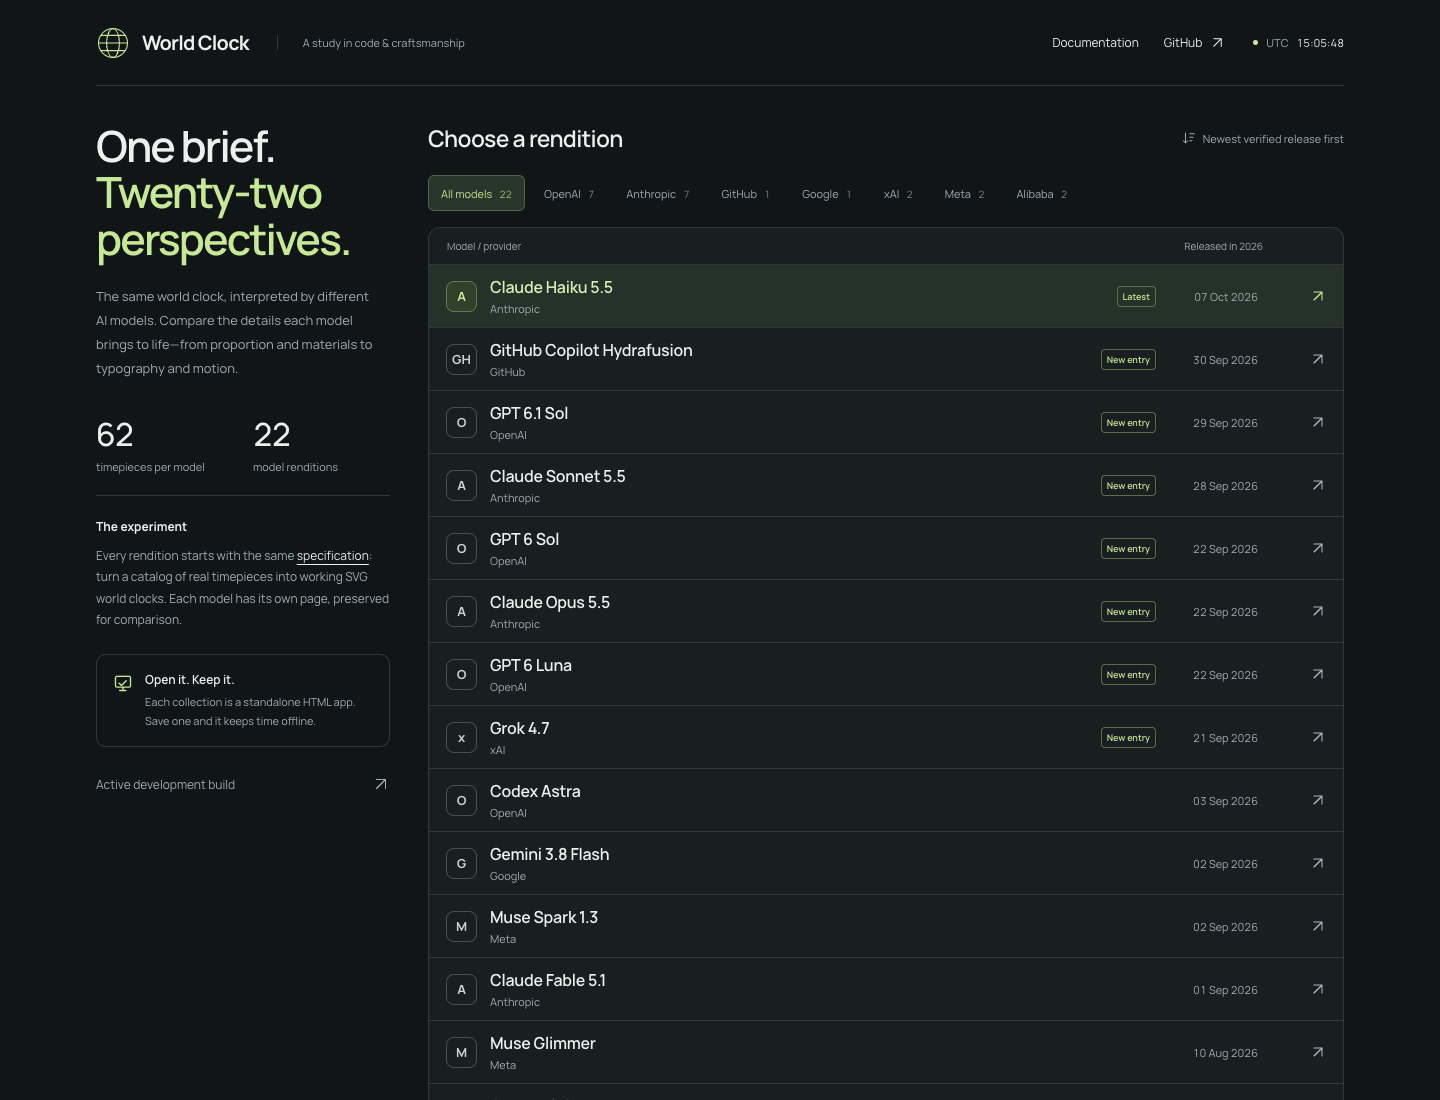
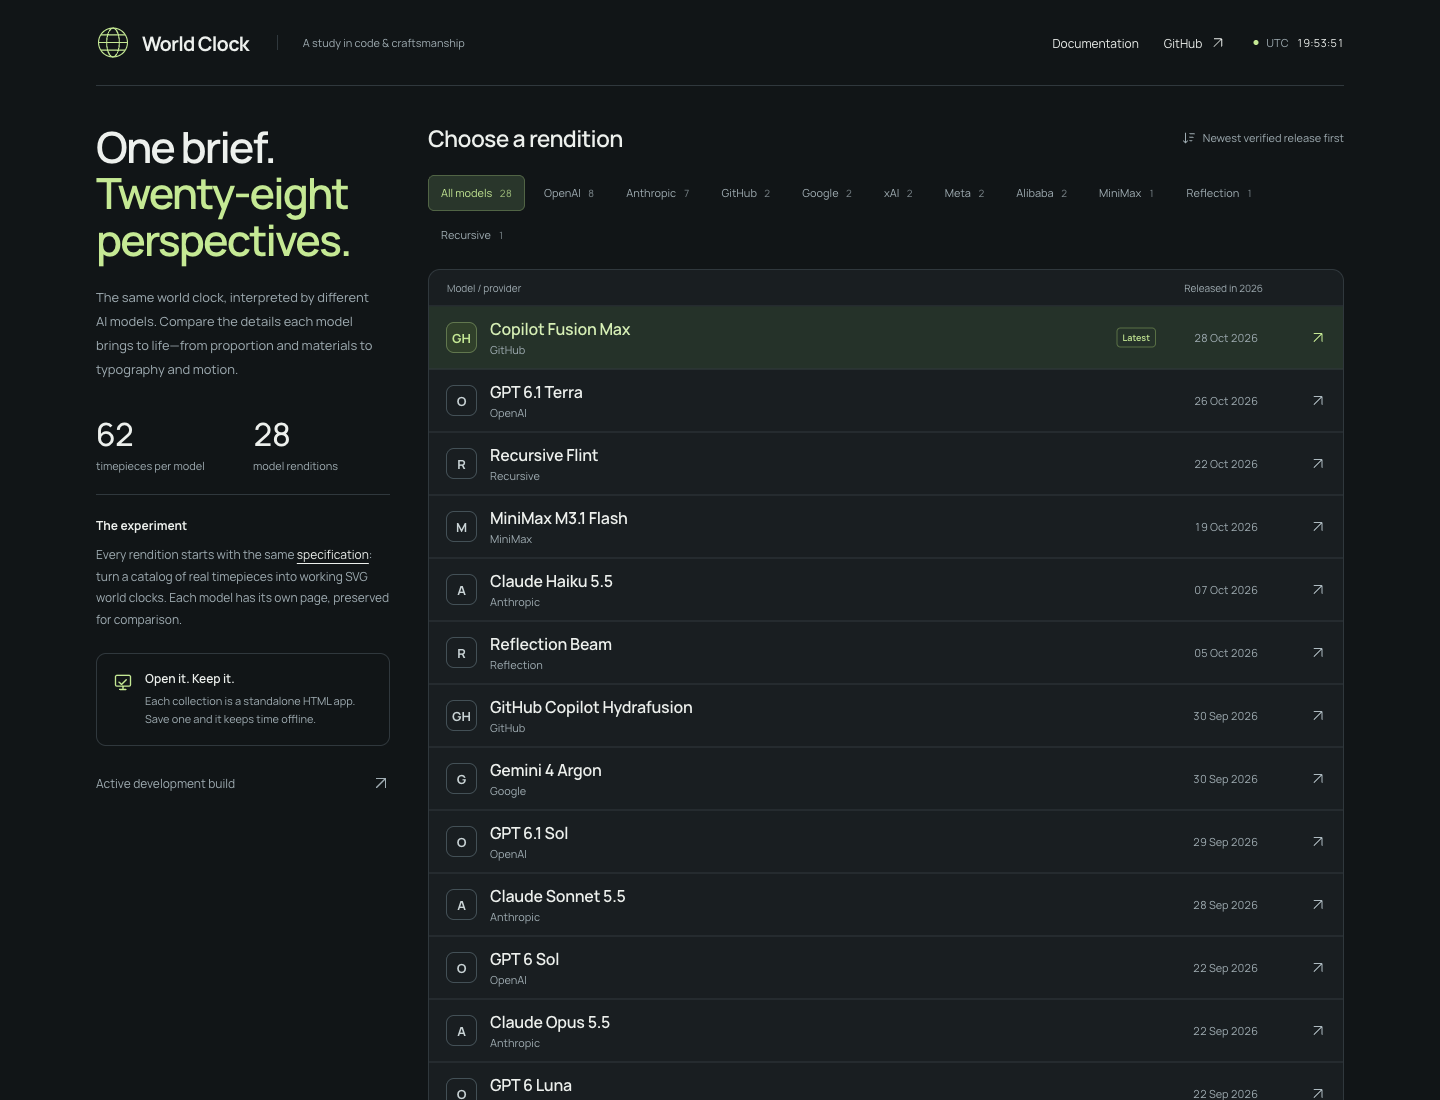
Record Copilot Fusion Max release date (#145)
Record October 28, 2026 as the Copilot Fusion Max release date and update the directory, documentation, and screenshots.

diff --git a/index.html b/index.html
@@ -44,7 +44,8 @@
       <div class="directory-head"><h2 id="directory-title">Choose a rendition</h2><span class="release-order"><svg class="icon" viewBox="0 0 20 20" aria-hidden="true"><path d="M5 3v14m-3-3 3 3 3-3M11 4h7m-7 5h5m-5 5h3"/></svg>Newest verified release first</span></div>
       <div class="filter-bar" role="group" aria-label="Filter models by provider" hidden><button type="button" data-filter="all" aria-pressed="true">All models <span>28</span></button><button type="button" data-filter="OpenAI" aria-pressed="false">OpenAI <span>8</span></button><button type="button" data-filter="Anthropic" aria-pressed="false">Anthropic <span>7</span></button><button type="button" data-filter="GitHub" aria-pressed="false">GitHub <span>2</span></button><button type="button" data-filter="Google" aria-pressed="false">Google <span>2</span></button><button type="button" data-filter="xAI" aria-pressed="false">xAI <span>2</span></button><button type="button" data-filter="Meta" aria-pressed="false">Meta <span>2</span></button><button type="button" data-filter="Alibaba" aria-pressed="false">Alibaba <span>2</span></button><button type="button" data-filter="MiniMax" aria-pressed="false">MiniMax <span>1</span></button><button type="button" data-filter="Reflection" aria-pressed="false">Reflection <span>1</span></button><button type="button" data-filter="Recursive" aria-pressed="false">Recursive <span>1</span></button></div>
       <div class="table"><div class="table-header" aria-hidden="true"><span>Model / provider</span><span>Released in 2026</span></div><ol class="directory" reversed aria-label="Model renditions, newest verified release first">
-<li data-release-date="2026-10-26" data-provider="OpenAI" class="latest"><a class="model-link" href="versions/gpt-6.1-terra.html"><span class="provider-mark" aria-hidden="true">O</span><span class="model-info"><span class="model-name">GPT 6.1 Terra</span><span class="provider">OpenAI</span></span><span class="latest-badge">Latest</span><time datetime="2026-10-26">26 Oct<span> 2026</span></time><span class="open-label">Open</span><svg class="icon" viewBox="0 0 24 24" aria-hidden="true"><path d="M6 18 18 6M6 6h12v12"/></svg></a></li>
+<li data-release-date="2026-10-28" data-provider="GitHub" class="latest"><a class="model-link" href="versions/copilot-fusion-max.html"><span class="provider-mark" aria-hidden="true">GH</span><span class="model-info"><span class="model-name">Copilot Fusion Max</span><span class="provider">GitHub</span></span><span class="latest-badge">Latest</span><time datetime="2026-10-28">28 Oct<span> 2026</span></time><span class="open-label">Open</span><svg class="icon" viewBox="0 0 24 24" aria-hidden="true"><path d="M6 18 18 6M6 6h12v12"/></svg></a></li>
+<li data-release-date="2026-10-26" data-provider="OpenAI"><a class="model-link" href="versions/gpt-6.1-terra.html"><span class="provider-mark" aria-hidden="true">O</span><span class="model-info"><span class="model-name">GPT 6.1 Terra</span><span class="provider">OpenAI</span></span><span class="row-spacer" aria-hidden="true"></span><time datetime="2026-10-26">26 Oct<span> 2026</span></time><span class="open-label">Open</span><svg class="icon" viewBox="0 0 24 24" aria-hidden="true"><path d="M6 18 18 6M6 6h12v12"/></svg></a></li>
 <li data-release-date="2026-10-22" data-provider="Recursive"><a class="model-link" href="versions/recursive-flint.html"><span class="provider-mark" aria-hidden="true">R</span><span class="model-info"><span class="model-name">Recursive Flint</span><span class="provider">Recursive</span></span><span class="row-spacer" aria-hidden="true"></span><time datetime="2026-10-22">22 Oct<span> 2026</span></time><span class="open-label">Open</span><svg class="icon" viewBox="0 0 24 24" aria-hidden="true"><path d="M6 18 18 6M6 6h12v12"/></svg></a></li>
 <li data-release-date="2026-10-19" data-provider="MiniMax"><a class="model-link" href="versions/minimax-m3-1-flash.html"><span class="provider-mark" aria-hidden="true">M</span><span class="model-info"><span class="model-name">MiniMax M3.1 Flash</span><span class="provider">MiniMax</span></span><span class="row-spacer" aria-hidden="true"></span><time datetime="2026-10-19">19 Oct<span> 2026</span></time><span class="open-label">Open</span><svg class="icon" viewBox="0 0 24 24" aria-hidden="true"><path d="M6 18 18 6M6 6h12v12"/></svg></a></li>
 <li data-release-date="2026-10-07" data-provider="Anthropic"><a class="model-link" href="versions/claude-haiku-5.5.html"><span class="provider-mark" aria-hidden="true">A</span><span class="model-info"><span class="model-name">Claude Haiku 5.5</span><span class="provider">Anthropic</span></span><span class="row-spacer" aria-hidden="true"></span><time datetime="2026-10-07">07 Oct<span> 2026</span></time><span class="open-label">Open</span><svg class="icon" viewBox="0 0 24 24" aria-hidden="true"><path d="M6 18 18 6M6 6h12v12"/></svg></a></li>
@@ -71,7 +72,6 @@
 <li data-release-date="2026-05-28" data-provider="Anthropic"><a class="model-link" href="versions/claude-opus-4.8.html"><span class="provider-mark" aria-hidden="true">A</span><span class="model-info"><span class="model-name">Claude Opus 4.8</span><span class="provider">Anthropic</span></span><span class="row-spacer" aria-hidden="true"></span><time datetime="2026-05-28">28 May<span> 2026</span></time><span class="open-label">Open</span><svg class="icon" viewBox="0 0 24 24" aria-hidden="true"><path d="M6 18 18 6M6 6h12v12"/></svg></a></li>
 <li data-release-date="2026-04-23" data-provider="OpenAI"><a class="model-link" href="versions/codex-5.5.html"><span class="provider-mark" aria-hidden="true">O</span><span class="model-info"><span class="model-name">Codex 5.5</span><span class="provider">OpenAI</span></span><span class="row-spacer" aria-hidden="true"></span><time datetime="2026-04-23">23 Apr<span> 2026</span></time><span class="open-label">Open</span><svg class="icon" viewBox="0 0 24 24" aria-hidden="true"><path d="M6 18 18 6M6 6h12v12"/></svg></a></li>
 <li data-release-date="2026-04-16" data-provider="Alibaba"><a class="model-link" href="versions/qwen-3.6.html"><span class="provider-mark" aria-hidden="true">Qw</span><span class="model-info"><span class="model-name">Qwen 3.6:35b</span><span class="provider">Alibaba</span></span><span class="row-spacer" aria-hidden="true"></span><time datetime="2026-04-16">16 Apr<span> 2026</span></time><span class="open-label">Open</span><svg class="icon" viewBox="0 0 24 24" aria-hidden="true"><path d="M6 18 18 6M6 6h12v12"/></svg></a></li>
-<li data-provider="GitHub"><a class="model-link" href="versions/copilot-fusion-max.html"><span class="provider-mark" aria-hidden="true">GH</span><span class="model-info"><span class="model-name">Copilot Fusion Max</span><span class="provider">GitHub</span></span><span class="row-spacer" aria-hidden="true"></span><span class="date-unverified">Release date unverified</span><span class="open-label">Open</span><svg class="icon" viewBox="0 0 24 24" aria-hidden="true"><path d="M6 18 18 6M6 6h12v12"/></svg></a></li>
 </ol></div>
       <div class="directory-note"><span id="result-count" role="status" aria-live="polite">28 renditions · one shared specification</span><a href="world-clock.html">Active build <svg class="icon" viewBox="0 0 24 24" aria-hidden="true"><path d="M6 18 18 6M6 6h12v12"/></svg></a></div>
     </section>

diff --git a/README.md b/README.md
@@ -30,6 +30,7 @@ Models with verified release dates are listed newest first. **Model release** li
 
 | Model | Model release | Snapshot |
 | --- | --- | --- |
+| [Copilot Fusion Max](versions/copilot-fusion-max.html) | 2026-10-28 (maintainer-supplied) | 2026-10-28 |
 | [GPT 6.1 Terra](versions/gpt-6.1-terra.html) | [2026-10-26](https://developers.openai.com/api/docs/changelog) | 2026-10-26 |
 | [Recursive Flint](versions/recursive-flint.html) | 2026-10-22 (maintainer-supplied) | 2026-10-22 |
 | [MiniMax M3.1 Flash](versions/minimax-m3-1-flash.html) | [2026-10-19](https://www.minimax.io/blog/minimax-m31f) | 2026-10-21 |
@@ -57,7 +58,6 @@ Models with verified release dates are listed newest first. **Model release** li
 | [Claude Opus 4.8](versions/claude-opus-4.8.html) | [2026-05-28](https://www.anthropic.com/news/claude-opus-4-8) | 2026-06-30 |
 | [Codex 5.5](versions/codex-5.5.html) | [2026-04-23](https://openai.com/index/introducing-gpt-5-5/) | 2026-07-09 |
 | [Qwen 3.6](versions/qwen-3.6.html) | [2026-04-16](https://github.com/QwenLM/Qwen3.6) | 2026-10-07 |
-| [Copilot Fusion Max](versions/copilot-fusion-max.html) | Unverified | 2026-10-28 |
 
 The [active development build](world-clock.html) remains available separately. It is not automatically replaced by the newest model entry. [versions.json](versions.json) records the available snapshots.
 
@@ -65,7 +65,7 @@ The [active development build](world-clock.html) remains available separately. I
 
 The shared brief covers city search, adding and removing cities, individual and all-city face shuffles, ordering by UTC offset, and live local times. The catalog spans mechanical and digital watches, architectural clocks, pocket watches, and character timepieces.
 
-Copilot Fusion Max is an independent standalone rendition with 62 original SVG faces, a live city board, saved city settings, face shuffling, a lume study, and a poseable dial inspector. Its project snapshot is October 28, 2026; no model-release date is claimed. [Read the reference and approximation notes](docs/copilot-fusion-max-reference-notes.md).
+Copilot Fusion Max is an independent standalone rendition with 62 original SVG faces, a live city board, saved city settings, face shuffling, a lume study, and a poseable dial inspector. Its maintainer-supplied model release date and project snapshot are both October 28, 2026. [Read the reference and approximation notes](docs/copilot-fusion-max-reference-notes.md).
 
 ![Copilot Fusion Max’s independently drawn collection of 62 timepieces](docs/assets/copilot-fusion-max-faces.png)
 

diff --git a/docs/model-release-dates.md b/docs/model-release-dates.md
@@ -1,6 +1,6 @@
 # Model release dates
 
-Copilot Fusion Max has no verified public model-release date for this directory. The index marks its release date as unverified; its project snapshot was captured on **October 28, 2026**.
+Copilot Fusion Max’s release date, **October 28, 2026**, was supplied by the maintainer. No public vendor release source exists to verify it against, so it is recorded here as maintainer-supplied rather than externally confirmed. The rendition was captured on the same day, and the snapshot date in `versions.json` records that repository checkpoint separately.
 
 GPT 6.1 Terra was released on **October 26, 2026**, as recorded in [OpenAI’s API changelog](https://developers.openai.com/api/docs/changelog). This rendition was captured on the same date; its snapshot date is recorded separately in `versions.json`.
 
@@ -30,7 +30,7 @@ Claude Sonnet 5.5’s release date, **September 28, 2026**, was verified against
 
 | Repository model label | Release date | Evidence |
 | --- | --- | --- |
-| Copilot Fusion Max | Unverified | No vendor-published release date was established for the October 28, 2026 project snapshot. |
+| Copilot Fusion Max | 2026-10-28 | Maintainer-supplied. No public vendor release source exists, so this date is not externally verified. |
 | Recursive Flint | 2026-10-22 | Maintainer-supplied. No public vendor release source exists, so this date is not externally verified. |
 | MiniMax M3.1 Flash | 2026-10-19 | [MiniMax’s announcement](https://www.minimax.io/blog/minimax-m31f) is dated October 19, 2026 and introduces the model as `MiniMax-M3.1-Flash`; the [API reference](https://platform.minimax.io/docs/api-reference/text-anthropic-api) documents the `minimax-m3.1-flash` model ID. |
 | Claude Haiku 5.5 | 2026-10-07 | [Anthropic’s announcement](https://www.anthropic.com/claude-haiku-5-5) is dated October 7, 2026 and introduces the model. |

diff --git a/CHANGELOG.md b/CHANGELOG.md
@@ -4,7 +4,9 @@ Notable project changes will be tracked here.
 
 ## Unreleased
 
-- Added Copilot Fusion Max as an independent standalone rendition, authored from scratch with 62 custom SVG timepieces, live city controls, duplicate-aware face shuffling, a searchable dial library, lume study, and poseable inspection. Added its index and manifest entries, README documentation, reference notes, and screenshots. The project snapshot is October 28, 2026; no model-release date is claimed.
+- Set Copilot Fusion Max’s directory release date to the maintainer-supplied October 28, 2026, moving it to the top of the index as the latest rendition and updating the README table, release-date notes, reference notes, and index screenshots accordingly.
+
+- Added Copilot Fusion Max as an independent standalone rendition, authored from scratch with 62 custom SVG timepieces, live city controls, duplicate-aware face shuffling, a searchable dial library, lume study, and poseable inspection. Added its index and manifest entries, README documentation, reference notes, and screenshots. The project snapshot is October 28, 2026.
 
 - Added GPT 6.1 Terra as an independent standalone rendition with 62 SVG timepieces, local city management, a searchable collection, inspection, and chronograph controls. Added the index and manifest entries, reference notes, and rendered screenshots. The model release and project snapshot are both dated October 26, 2026.
 

diff --git a/docs/copilot-fusion-max-reference-notes.md b/docs/copilot-fusion-max-reference-notes.md
@@ -24,7 +24,7 @@ The page provides live browser-time updates, a west-to-east UTC-sorted city boar
 - A limited city atlas is bundled for offline use; daylight-saving behavior and displayed local times use the browser's IANA time-zone data.
 - The supplied photo archive covers 35 catalog objects, so the remaining 27 faces are informed by their named references and public design signatures, not by photographs in that archive.
 
-The project checkpoint date is October 28, 2026. No model-release date is claimed.
+The model release date, October 28, 2026, is maintainer-supplied and recorded in [the release-date notes](model-release-dates.md). The project checkpoint date is the same day and is recorded separately in `versions.json`.
 
 ## Regression coverage
 
